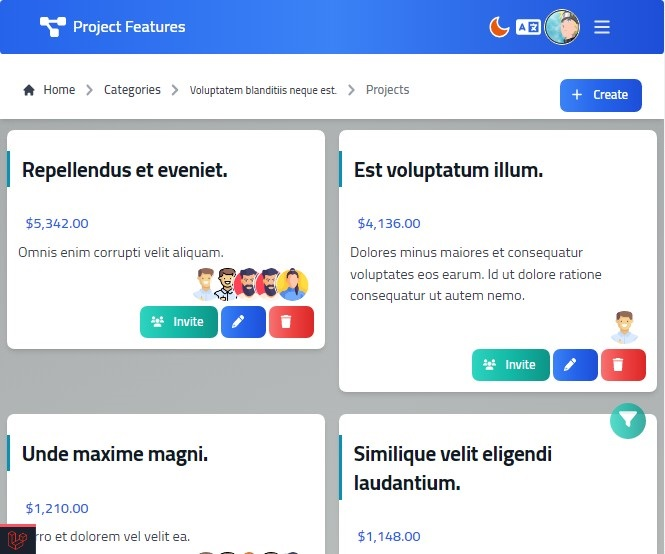
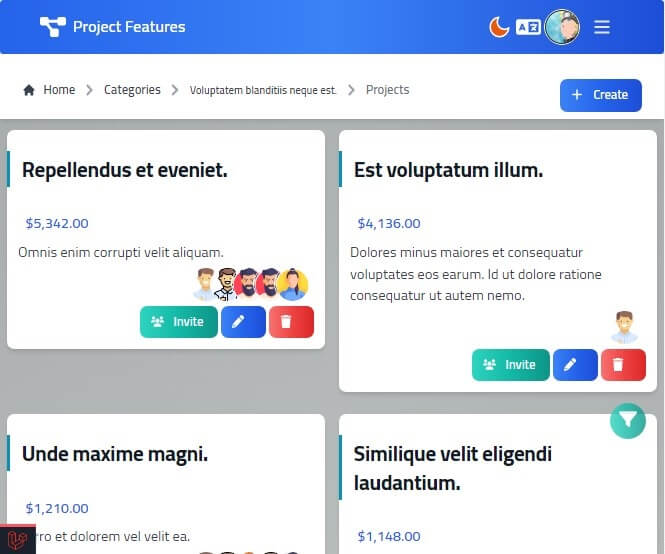
add more shots

diff --git a/resources/views/components/card.blade.php b/resources/views/components/card.blade.php
@@ -8,7 +8,7 @@
         <div class="relative max-w-sm card-bg">
             <div class="py-3"></div>
             <h5
-                class="py-1 pl-3 mb-2 text-2xl font-bold tracking-tight text-gray-900 transition ltr:border-l-4 rtl:border-r-4 border-cyan-600 hover:border-cyan-800 dark:text-white ">
+                class="py-1 mb-2 text-2xl font-bold tracking-tight text-gray-900 transition ltr:pl-3 rtl:pr-3 ltr:border-l-4 rtl:border-r-4 border-cyan-600 hover:border-cyan-800 dark:text-white ">
                 <a href="{{ $url }}" class="">
                     {{ $title }}
                 </a>

diff --git a/resources/views/home/hero.blade.php b/resources/views/home/hero.blade.php
@@ -19,7 +19,7 @@
             </a> 
         </div>
         <div class="hidden lg:mt-0 lg:col-span-5 lg:flex">
-            <x-img-loader src="https://flowbite.s3.amazonaws.com/blocks/marketing-ui/hero/phone-mockup.png" alt="app hero image">
+            <x-img-loader src="/shots/1.jpeg" alt="app hero image" />
         </div>                
     </div>
 </section>
